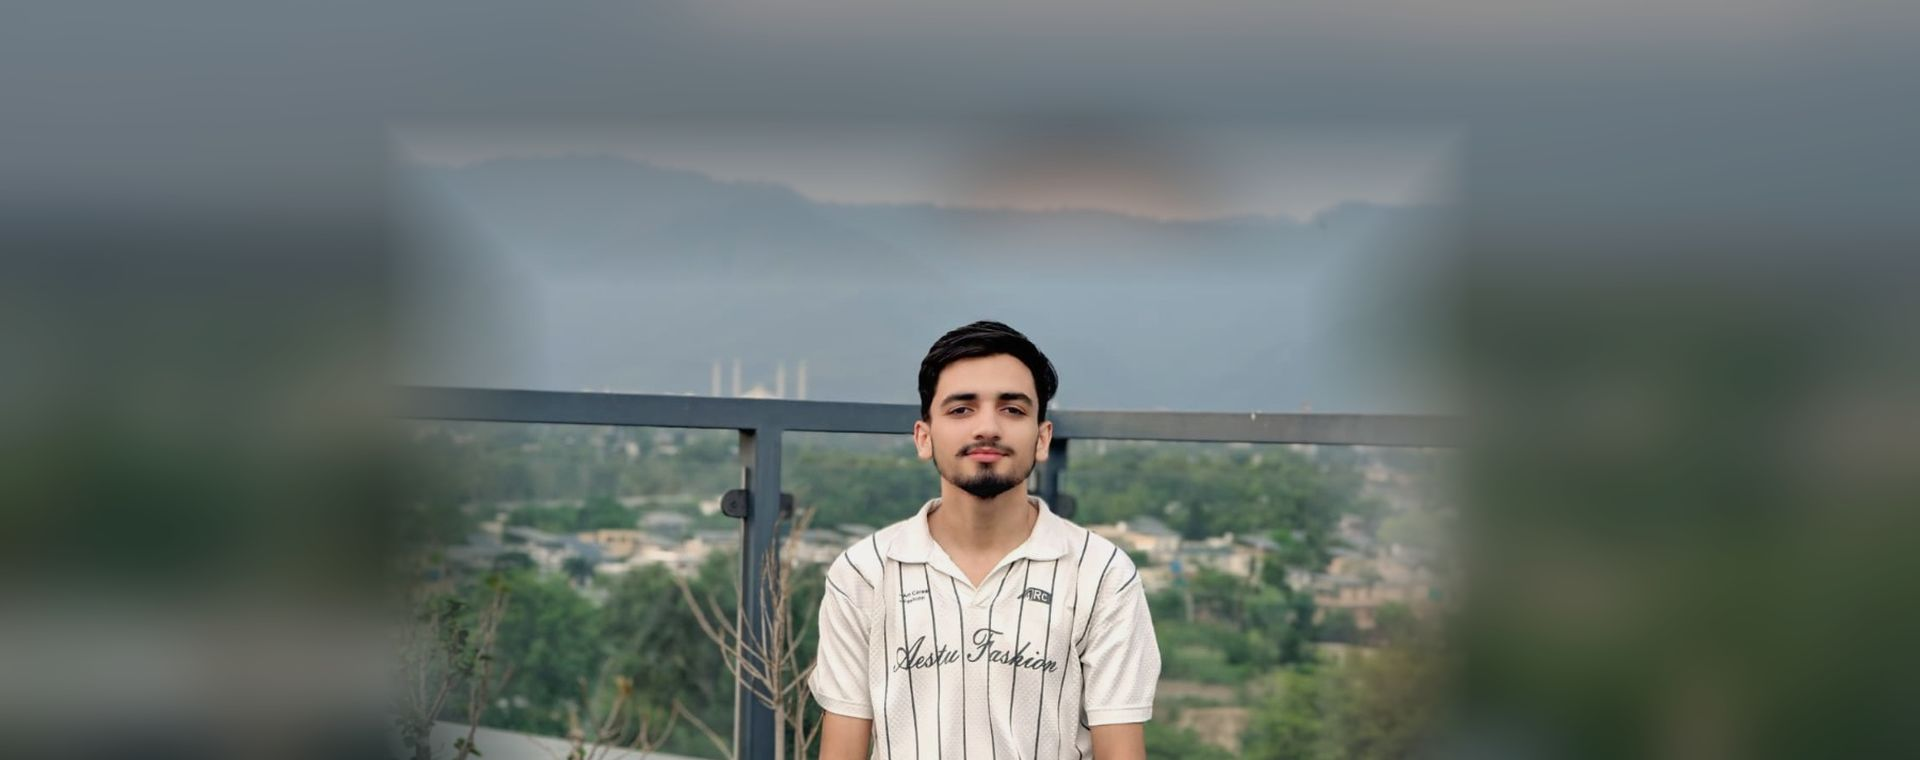
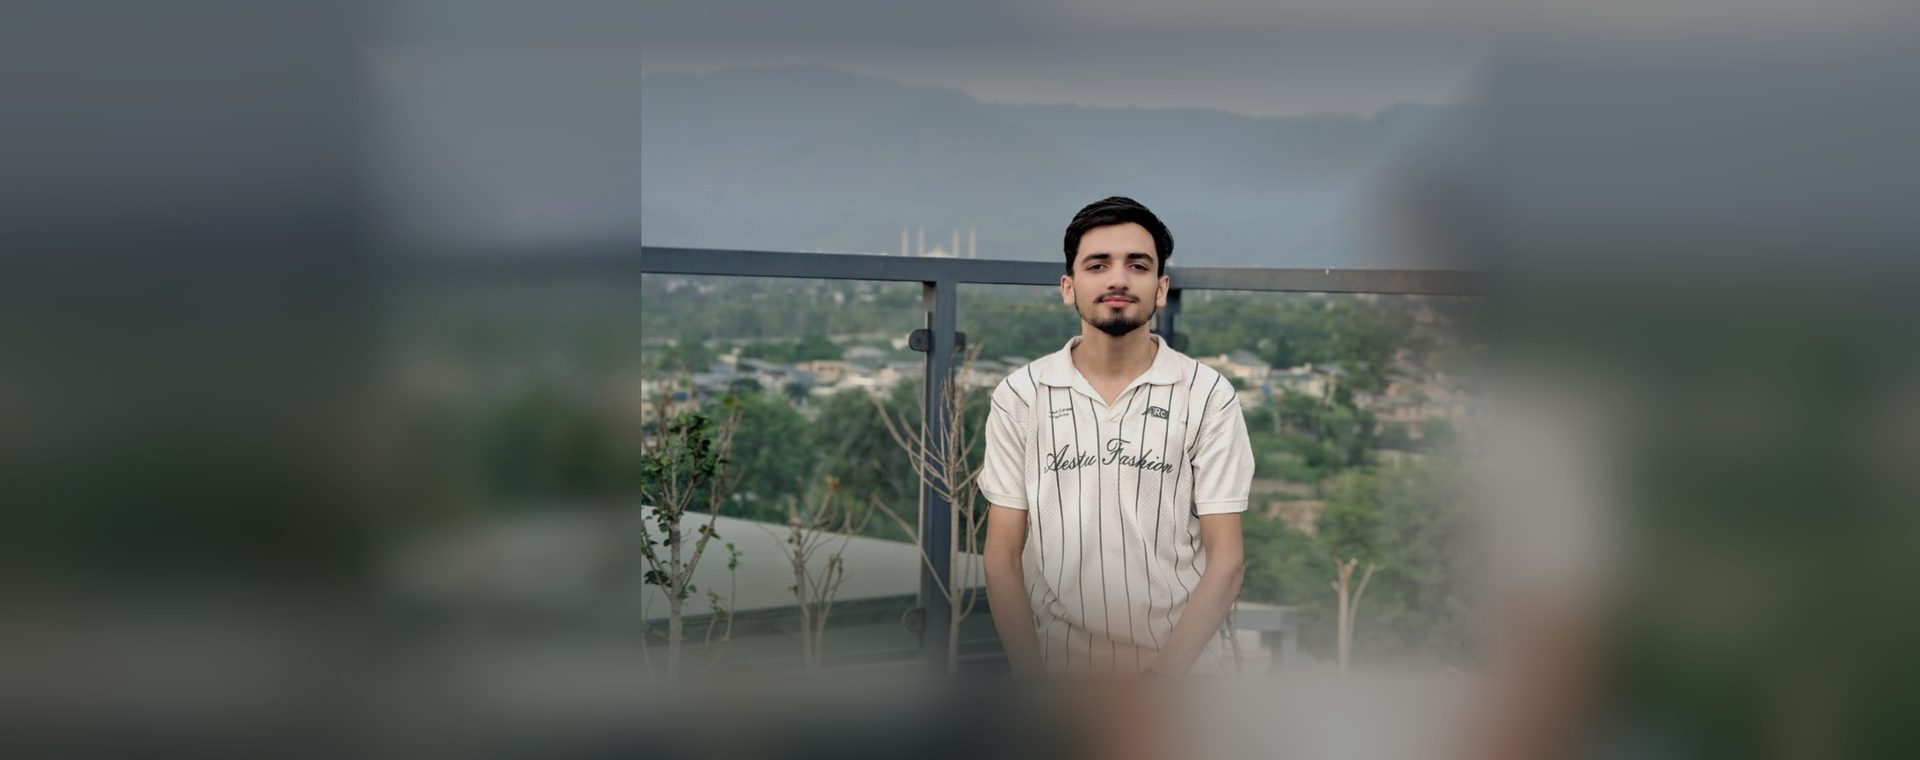
Fix home mobile hero: wider crop, higher position, match inner pages.
Use the mobile banner via CSS background on small screens so the portrait sits higher and farther back like About and Resume.

diff --git a/assets/css/main.css b/assets/css/main.css
@@ -1231,13 +1231,35 @@ section,
     font-size: 18px;
   }
 
-  /* on mobile: same scale as before, portrait centred */
+  /* home hero: same mobile photo treatment as inner pages */
+  .index-page .hero {
+    background-color: #071e1d;
+    background-image: url("../img/m-home-mobile.jpg?v=6");
+    background-size: cover;
+    background-position: center 22%;
+    background-repeat: no-repeat;
+  }
+
+  .index-page .hero .hero-bg,
+  .index-page .hero .hero-bg img {
+    display: none !important;
+  }
+
+  /* on mobile: same framing as inner pages */
   .hero img,
   .hero picture img {
     object-position: center 28%;
-    transform: scale(1.04);
+    transform: none;
     left: 0;
+    top: 0;
     width: 100%;
+    height: 100%;
+  }
+
+  .index-page .hero .hero-tagline {
+    font-size: 15px;
+    line-height: 1.55;
+    padding: 6px 12px;
   }
 
   .hero::before {

diff --git a/index.html b/index.html
@@ -25,7 +25,7 @@
   <link href="assets/vendor/glightbox/css/glightbox.min.css" rel="stylesheet">
 
   <!-- Main CSS File -->
-  <link href="assets/css/main.css" rel="stylesheet">
+  <link href="assets/css/main.css?v=6" rel="stylesheet">
   <script>
     (function () {
       try {
@@ -103,8 +103,8 @@
     <section id="hero" class="hero section">
 
       <picture class="hero-bg">
-        <source media="(max-width: 768px)" srcset="assets/img/m-home-mobile.jpg?v=2">
-        <img src="assets/img/m-home.jpg?v=2" alt="Saqib Sharif">
+        <source media="(max-width: 768px)" srcset="assets/img/m-home-mobile.jpg?v=6">
+        <img src="assets/img/m-home.jpg?v=6" alt="Saqib Sharif">
       </picture>
 
       <div class="container text-center">
